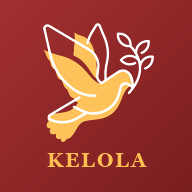
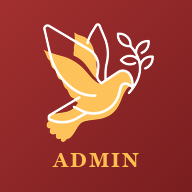
Ganti nama Kelola Data jadi Admin
Ikon layar utama, nama aplikasi, judul halaman, dan menu. Versi cache
service worker dinaikkan supaya ikon lama tidak tertahan di HP.

Changed region(s): [[0.25, 0.7812, 0.7812, 0.875]]

diff --git a/admin/index.html b/admin/index.html
@@ -11,11 +11,11 @@
 <meta name="apple-mobile-web-app-capable" content="yes">
 <meta name="mobile-web-app-capable" content="yes">
 <meta name="apple-mobile-web-app-status-bar-style" content="black-translucent">
-<meta name="apple-mobile-web-app-title" content="Kelola Data">
+<meta name="apple-mobile-web-app-title" content="Admin">
 <link rel="manifest" href="manifest.webmanifest">
 <link rel="icon" type="image/png" sizes="192x192" href="../ikon/admin-192.png">
 <link rel="apple-touch-icon" href="../ikon/admin-apple-180.png">
-<title>Bayumas — Kelola Data</title>
+<title>Bayumas — Admin</title>
 <style>
   html,body{margin:0;padding:0;height:100%;overflow:hidden;background:#1B5E20}
   #gulir{position:fixed;top:0;right:0;bottom:0;left:0;overflow:auto;-webkit-overflow-scrolling:touch;
@@ -44,7 +44,7 @@
 </head>
 <body>
 
-<div id="memuat"><div class="ic">⚙</div><div class="tx">Memuat halaman kelola…</div><div class="lambat">Sinyal sedang lambat, halaman masih dimuat. Tidak perlu ditutup.</div></div>
+<div id="memuat"><div class="ic">⚙</div><div class="tx">Memuat halaman admin…</div><div class="lambat">Sinyal sedang lambat, halaman masih dimuat. Tidak perlu ditutup.</div></div>
 <script>setTimeout(function () { var m = document.getElementById('memuat'); if (m && m.className.indexOf('pergi') < 0) m.className += ' tunggu'; }, 8000);</script>
 
 <div id="gulir">
@@ -56,7 +56,7 @@
 
 <div id="pasang">
   <img src="../ikon/admin-192.png" alt="">
-  <div class="tx" id="pasang-tx">Pasang Kelola Data di layar utama HP</div>
+  <div class="tx" id="pasang-tx">Pasang Admin di layar utama HP</div>
   <button id="pasang-ok" type="button">Pasang</button>
   <button id="pasang-x" type="button" aria-label="Tutup">&times;</button>
 </div>

diff --git a/sw.js b/sw.js
@@ -2,10 +2,10 @@
 //
 // Yang disimpan di HP HANYA halaman pembungkus dan ikon - supaya app
 // yang dipasang di layar utama langsung menampilkan layar pembuka
-// walau sinyal jelek. Aplikasinya sendiri (kasir, dashboard, kelola
-// data) tetap dimuat dari Google setiap kali dibuka: permintaan ke
+// walau sinyal jelek. Aplikasinya sendiri (kasir, dashboard,
+// admin) tetap dimuat dari Google setiap kali dibuka: permintaan ke
 // alamat lain tidak disentuh sama sekali.
-var VERSI = 'bayumas-pembungkus-v1';
+var VERSI = 'bayumas-pembungkus-v2';
 var INTI = [
   './', './kasir/', './owner/', './admin/',
   './ikon/kasir-192.png', './ikon/owner-192.png', './ikon/admin-192.png'

diff --git a/index.html b/index.html
@@ -53,7 +53,7 @@
     </a>
     <a class="tbl" href="./admin/">
       <span class="ic">⚙</span>
-      <span><span class="jd">Kelola Data</span><br>
+      <span><span class="jd">Admin</span><br>
             <span class="ket">Master data, resep, pengeluaran, arus kas</span></span>
     </a>
   </div>
@@ -65,7 +65,7 @@
     &bull; <b>iPhone:</b> di Safari ketuk <b>Bagikan</b> &rarr; <i>Tambah ke Layar Utama</i>
   </div>
 
-  <div class="catatan">Dashboard Owner dan Kelola Data meminta PIN owner.<br>
+  <div class="catatan">Dashboard Owner dan Admin meminta PIN owner.<br>
        Kasir meminta nama dan PIN pegawai.</div>
 </div>
 

diff --git a/README.md b/README.md
@@ -17,10 +17,10 @@ Kode sistemnya ada di repo privat terpisah: `Bayumas/pukis-bayumas`.
 | Menu | `https://bayumas.github.io/app/` | — |
 | Kasir | `https://bayumas.github.io/app/kasir/` | PIN cabang, bila sudah diatur |
 | Dashboard Owner | `https://bayumas.github.io/app/owner/` | PIN owner |
-| Kelola Data | `https://bayumas.github.io/app/admin/` | PIN owner |
+| Admin | `https://bayumas.github.io/app/admin/` | PIN owner |
 
 Hanya tiga halaman. Laporan toko titip ada sebagai tab di Dashboard
-Owner, dan pengeluaran ada di Kelola Data - bukan halaman terpisah,
+Owner, dan pengeluaran ada di Admin - bukan halaman terpisah,
 supaya tidak ada dua pintu menuju hal yang sama.
 
 ## Catatan keamanan halaman kasir
@@ -30,7 +30,7 @@ spreadsheet. Selama PIN cabang belum diatur, siapa pun yang menemukan
 alamat ini bisa memasukkan data palsu — dan alamat yang rapi jauh lebih
 mudah ditemukan daripada URL Apps Script yang panjang dan acak.
 
-PIN cabang diatur owner lewat halaman Kelola Data, tab **Cabang**. Berlaku
+PIN cabang diatur owner lewat halaman Admin, tab **Cabang**. Berlaku
 per cabang: begitu satu cabang diberi PIN, cabang itu langsung terlindungi
 tanpa perlu deploy ulang. Cabang yang belum diatur ditandai merah di sana.
 
@@ -57,7 +57,7 @@ ganti `src` pada `owner/index.html` dan `admin/index.html`.
 
 ## Pasang di layar utama
 
-Setiap halaman (kasir, owner, kelola data) punya `manifest.webmanifest`
+Setiap halaman (kasir, owner, admin) punya `manifest.webmanifest`
 sendiri, jadi masing-masing bisa dipasang sebagai ikon terpisah. Ikon
 ada di `ikon/`, dibuat dari logo merpati asli.
 
